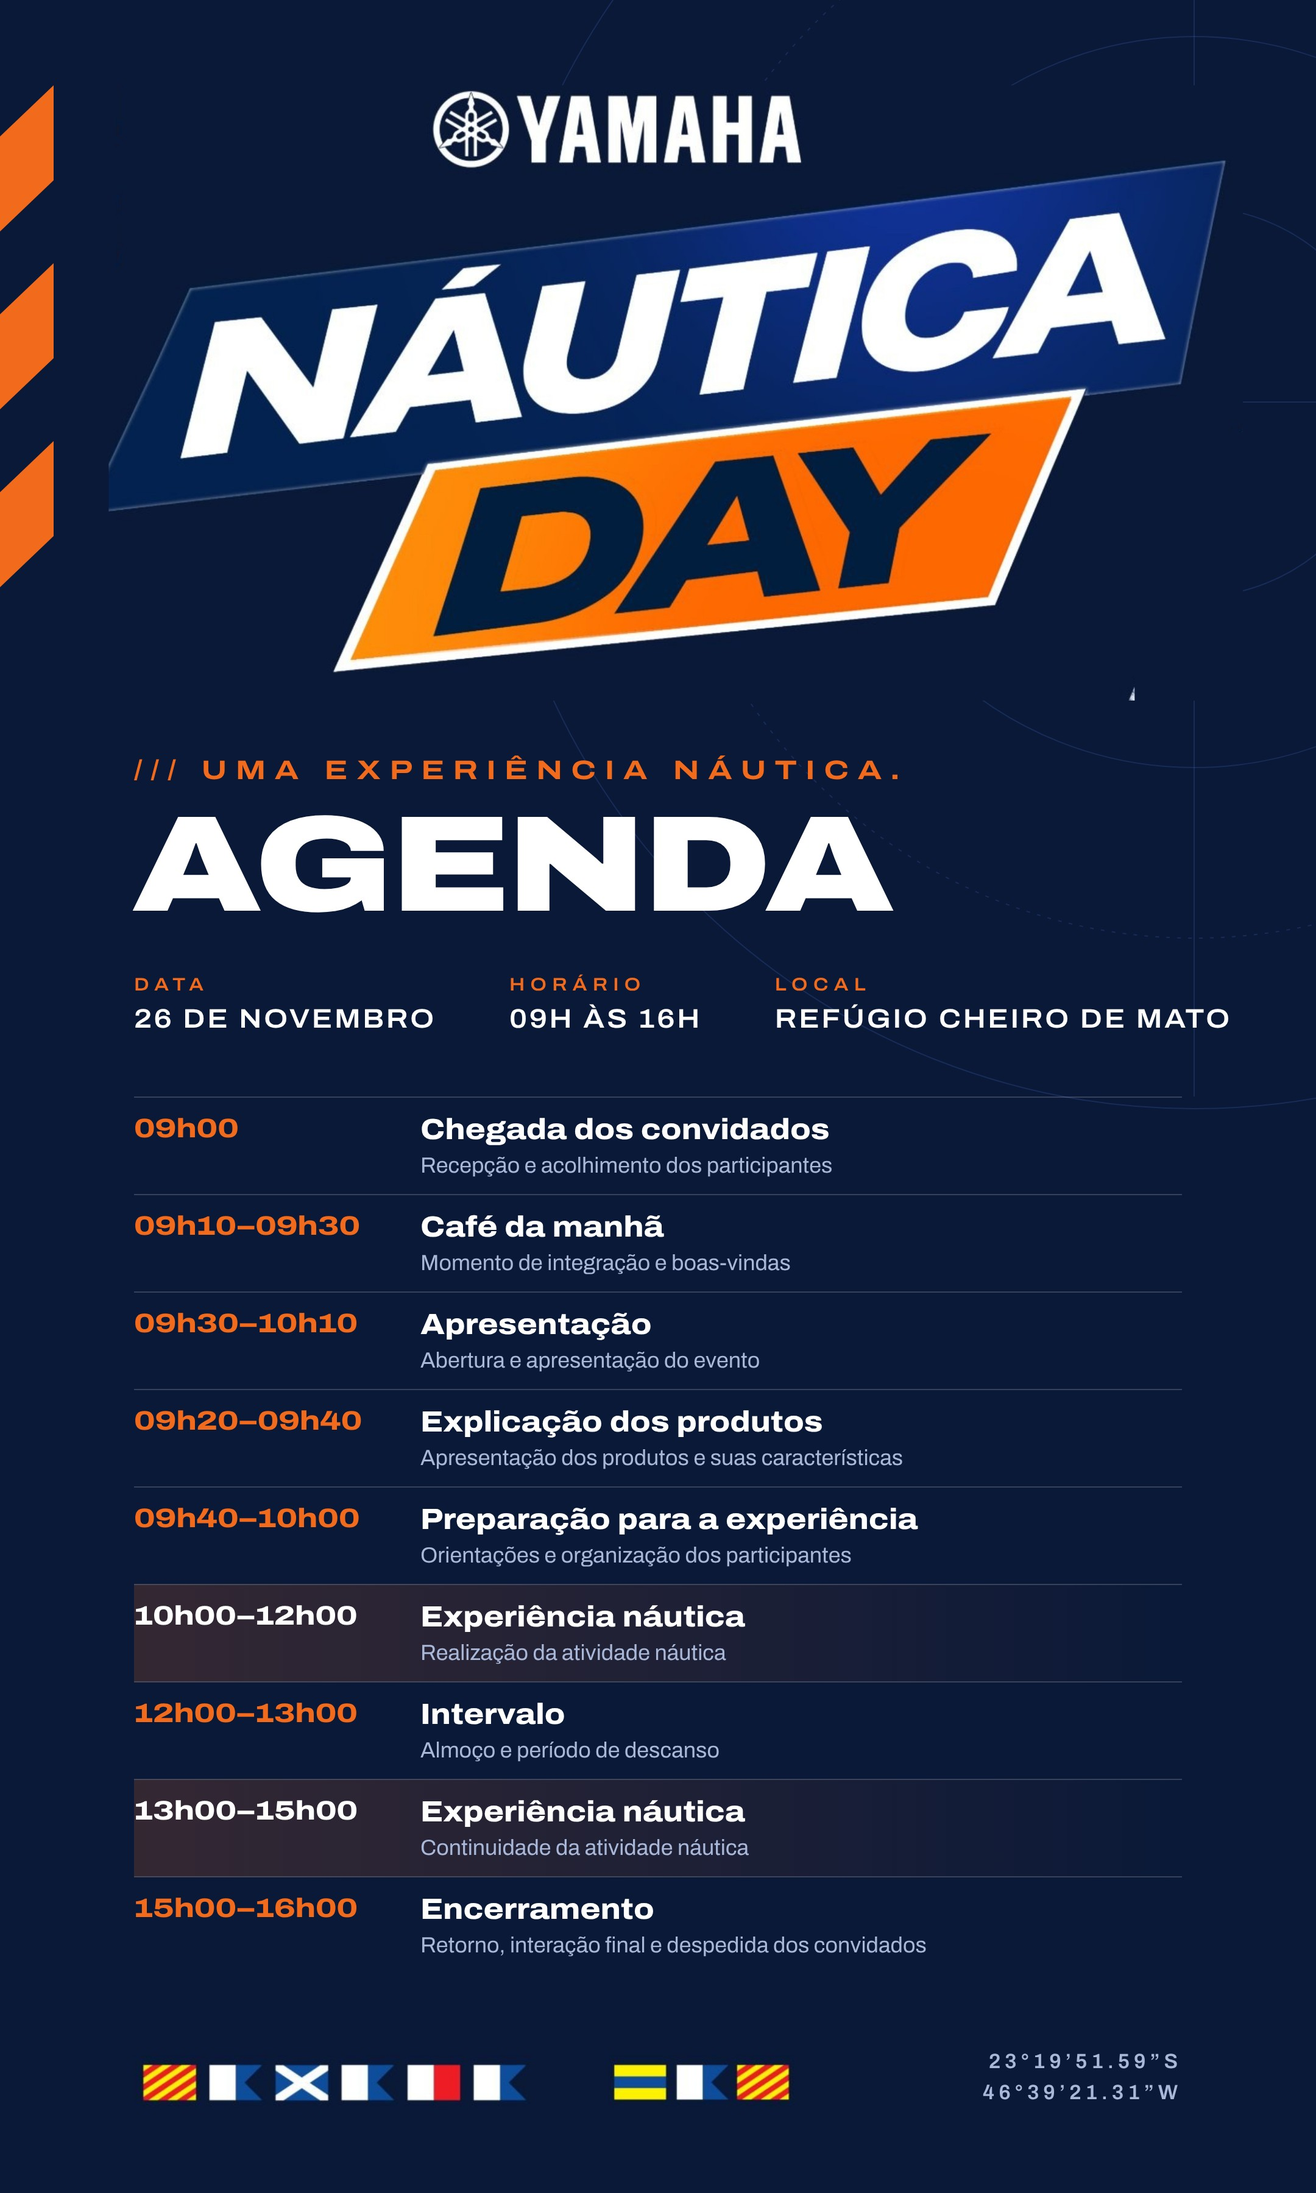
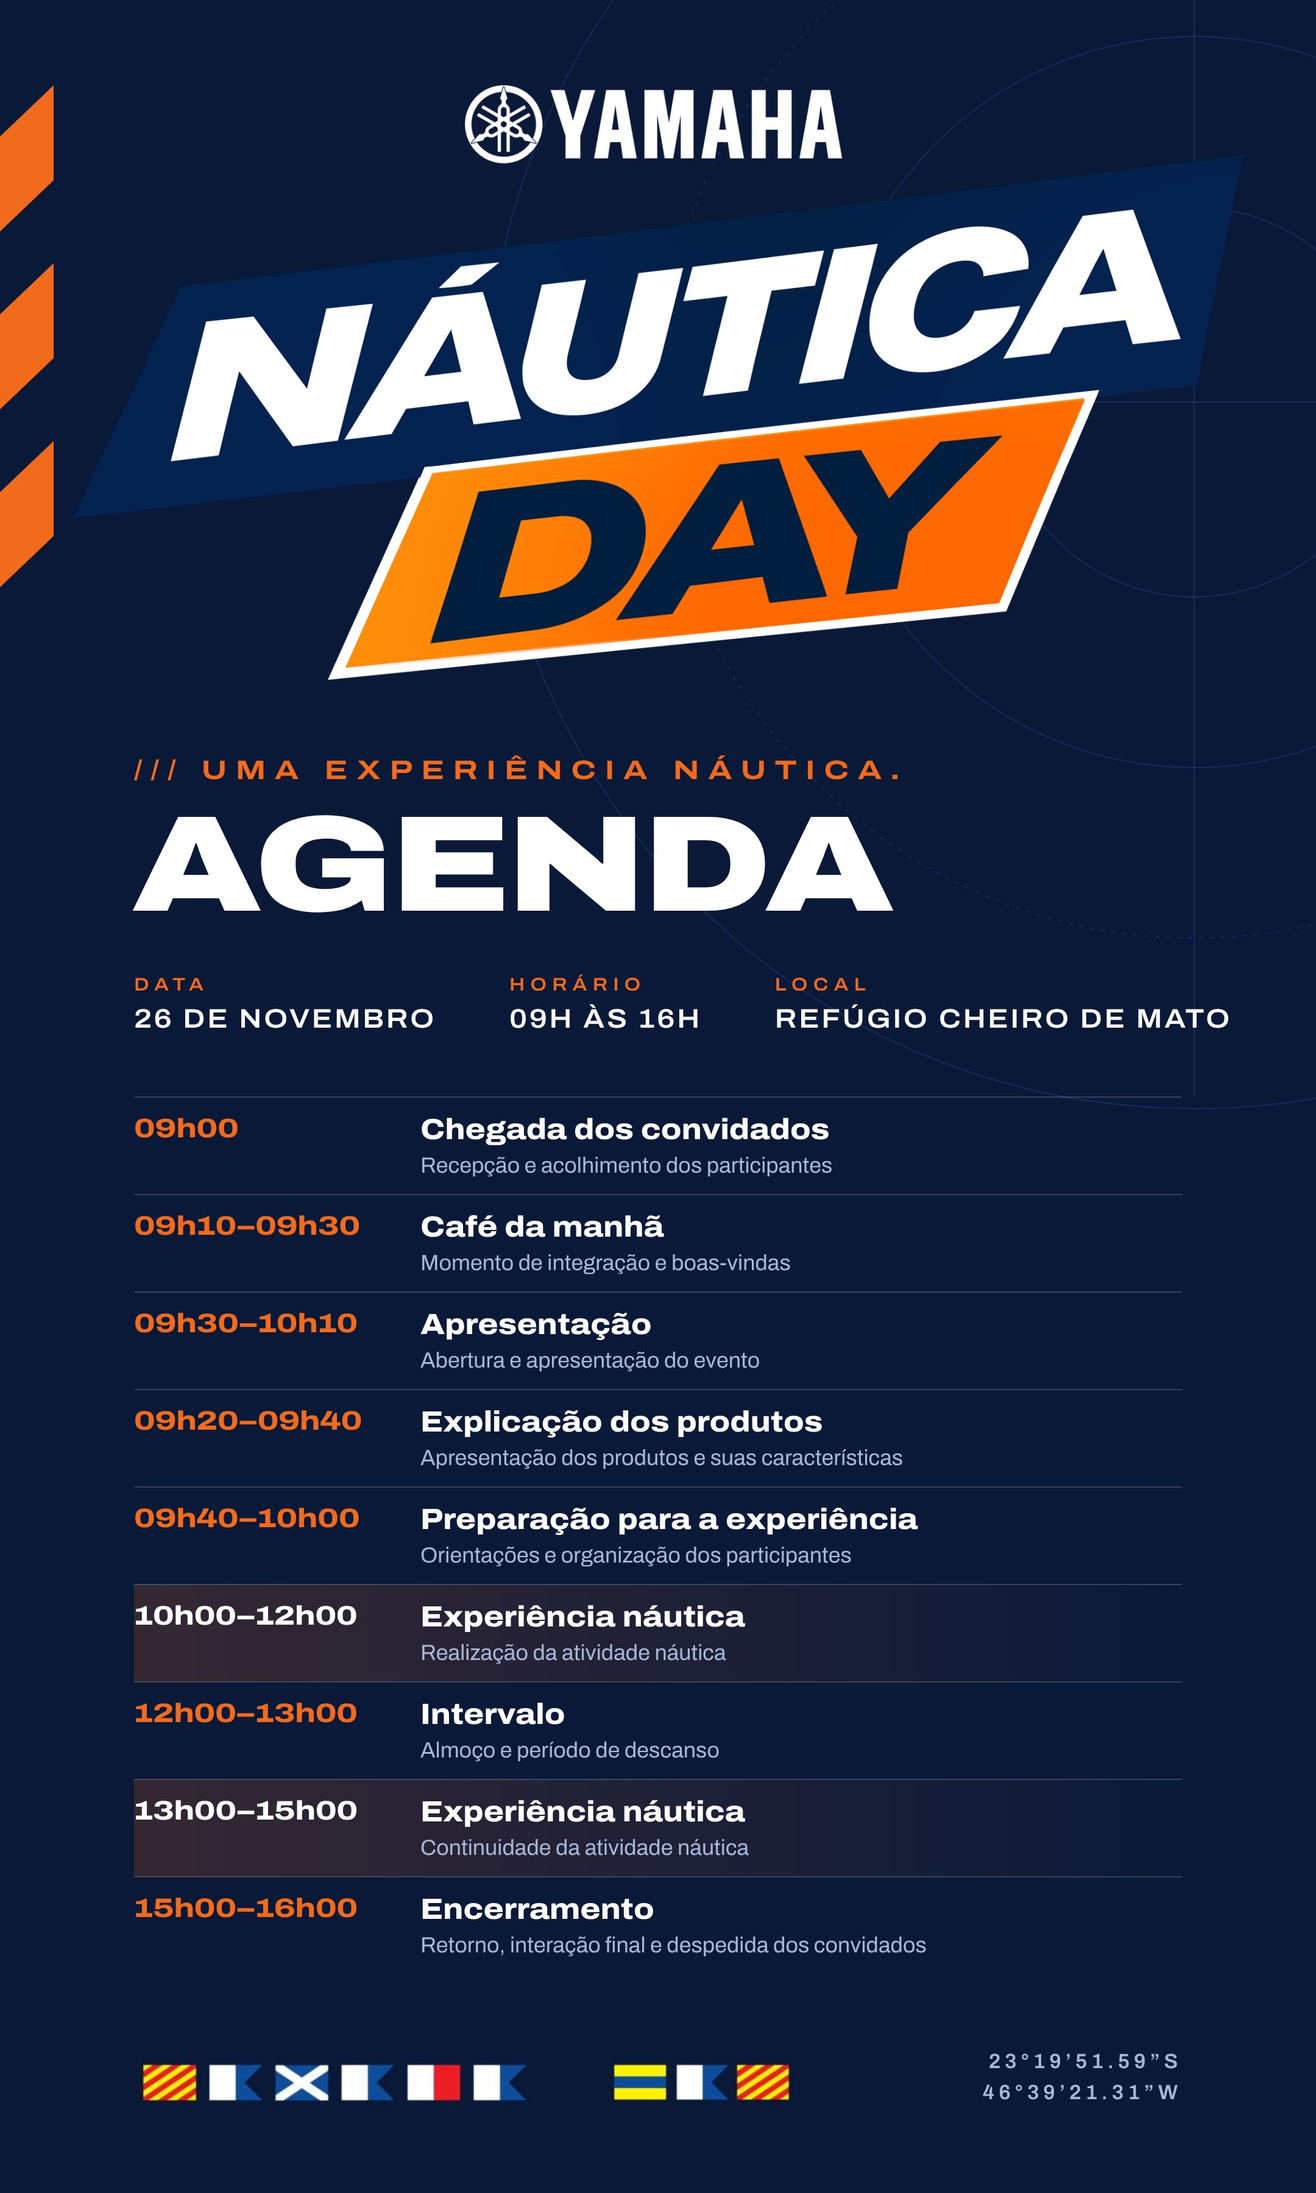
Agenda: lockup completo a partir do PSD
Claude-Session: https://claude.ai/code/session_011PRs9aBYhDYYvJe2sXdTZk

Changed region(s): [[0.2481, 0.0311, 0.9306, 0.3111], [0.0931, 0.1244, 0.3102, 0.2178], [0.3102, 0.1244, 0.3722, 0.1556]]

diff --git a/v2/index.html b/v2/index.html
@@ -510,7 +510,7 @@ function voteBox(){const k=KV[i],liked=!!ls.get("nd-like-"+k.id),c=cnt(k.id);
   <div class="tal">${KV.map((x,n)=>`<div class="row ${ls.get("nd-like-"+x.id)?'me':''}"><span>Rota ${n+1} · ${x.name}</span><b>${dbState==="ok"?cnt(x.id):'–'} ♥</b></div>`).join('')}</div></div>`}
 function bindVote(){const b=$("#vb");if(b)b.onclick=()=>cast(KV[i].id)}
 
-const PCS={"d": [{"t": "Pórtico de entrada", "d": "Só lettering e ícones: o lockup na viga, data e coordenadas numa coluna, rosa dos ventos e as bandeiras YAMAHA DAY na outra.", "sp": [["Formato", "4 × 3,5 m"], ["Material", "estrutura com lona tensionada"]], "img": "pd-portico.jpg", "w": 1671, "h": 941}, {"t": "Backdrop do palco", "d": "A única peça que muda com o KV escolhido: o key visual em escala, atrás do palco das apresentações e das fotos.", "sp": [["Formato", "8 × 3 m"], ["Material", "lona com iluminação frontal"]], "img": "pd-palco.jpg", "w": 1672, "h": 941}, {"t": "Wind banners e totem", "d": "Trio de wind banners navy (YAMAHA, tarjas NÁUTICA/DAY, radar com listras de largada) e totem com o lockup, data, coordenadas e bandeiras.", "sp": [["Wind banner", "pena 3,5 m, tecido sublimado"], ["Totem", "2 × 0,8 m, ACM com LED na base"]], "img": "c4-sinal.jpg", "w": 1200, "h": 800}, {"t": "Credencial", "d": "Frente navy com radar, as tarjas NÁUTICA/DAY, nome e faixa laranja; verso com a programação, QR e coordenadas.", "sp": [["Formato", "PVC 9,5 × 14 cm"]], "img": "c4-cred.jpg", "w": 1200, "h": 800}, {"t": "Cordão", "d": "Fita sublimada nas duas faces: navy com Yamaha, NÁUTICA DAY, bandeiras e data; laranja por dentro com NÁUTICA DAY gigante. Mosquetão com giro.", "sp": [["Fita", "25 mm, sublimação dupla face"]], "img": "a4-cordao.jpg", "w": 1200, "h": 800}, {"t": "Convite digital", "d": "Convite com confirmação de presença e a programação na tela seguinte.", "sp": [["Formato", "1080 × 1920"]], "img": "c4-digital.jpg", "w": 1200, "h": 800}, {"t": "Agenda do evento", "d": "A programação completa do dia no sistema do Náutica Day: lockup, radar, horários com as duas janelas de experiência náutica em destaque, bandeiras e coordenadas.", "sp": [["Formatos", "story, impresso A3 e totem"]], "img": "agenda.jpg?v=2", "w": 2160, "h": 3600}, {"t": "Camisetas", "d": "Navy com NÁUTICA DAY e coordenadas no peito; off-white com a carta náutica inteira nas costas, o rastro em S e as bandeiras.", "sp": [["Técnica", "silk"]], "img": "b4-camisetas.jpg", "w": 1200, "h": 799}, {"t": "Camisetas · tarjas", "d": "Navy com as tarjas verticais nas costas e o radar; branca com o lockup e as bandeiras no peito.", "sp": [["Base", "algodão 200 g, oversized"], ["Técnica", "silk em 3 cores"]], "img": "cam-tarjas.jpg", "w": 1376, "h": 936}, {"t": "Camisetas · variação", "d": "Navy com as tarjas no peito e as listras na lateral; laranja com o radar nas costas.", "sp": [["Base", "algodão 200 g, oversized"], ["Técnica", "silk em 2 cores"]], "img": "pz-c-camisetas.jpg", "w": 1200, "h": 799}, {"t": "Lycra UV", "d": "Para pilotar: manga laranja com o código de sinais, NÁUTICA DAY na lateral e a carta náutica nas costas.", "sp": [["Base", "lycra FPU 50+"]], "img": "b4-lycra.jpg", "w": 1200, "h": 799}, {"t": "Garrafa e copo", "d": "Garrafa inox navy gravada a laser com o stencil, a carta náutica, a rosa dos ventos e as coordenadas; copo branco com a faixa de bandeiras.", "sp": [["Garrafa", "inox 750 ml"]], "img": "b4-garrafa.jpg", "w": 1024, "h": 1280}, {"t": "Bonés", "d": "Dad hat navy com o lockup bordado em relevo, trucker com as bandeiras na lateral e bucket laranja.", "sp": [["Técnica", "bordado 3D"]], "img": "bone.jpg", "w": 1536, "h": 1024}, {"t": "Sacolas", "d": "Ecobag navy com o lockup e as bandeiras; laranja com o pattern NÁUTICA DAY do cordão.", "sp": [["Base", "lona 12 oz, alças de algodão"], ["Técnica", "serigrafia"]], "img": "sacola.jpg", "w": 1536, "h": 1024}], "e": [{"t": "Pórtico de entrada", "d": "Só lettering e ícones: o lockup na viga, data e coordenadas numa coluna, rosa dos ventos e as bandeiras YAMAHA DAY na outra.", "sp": [["Formato", "4 × 3,5 m"], ["Material", "estrutura com lona tensionada"]], "img": "pd-portico.jpg", "w": 1671, "h": 941}, {"t": "Backdrop do palco", "d": "A única peça que muda com o KV escolhido: o key visual em escala, atrás do palco das apresentações e das fotos.", "sp": [["Formato", "8 × 3 m"], ["Material", "lona com iluminação frontal"]], "img": "pe-palco.jpg", "w": 1671, "h": 941}, {"t": "Wind banners e totem", "d": "Trio de wind banners navy (YAMAHA, tarjas NÁUTICA/DAY, radar com listras de largada) e totem com o lockup, data, coordenadas e bandeiras.", "sp": [["Wind banner", "pena 3,5 m, tecido sublimado"], ["Totem", "2 × 0,8 m, ACM com LED na base"]], "img": "c4-sinal.jpg", "w": 1200, "h": 800}, {"t": "Credencial", "d": "Frente navy com radar, as tarjas NÁUTICA/DAY, nome e faixa laranja; verso com a programação, QR e coordenadas.", "sp": [["Formato", "PVC 9,5 × 14 cm"]], "img": "c4-cred.jpg", "w": 1200, "h": 800}, {"t": "Cordão", "d": "Fita sublimada nas duas faces: navy com Yamaha, NÁUTICA DAY, bandeiras e data; laranja por dentro com NÁUTICA DAY gigante. Mosquetão com giro.", "sp": [["Fita", "25 mm, sublimação dupla face"]], "img": "a4-cordao.jpg", "w": 1200, "h": 800}, {"t": "Convite digital", "d": "Convite com confirmação de presença e a programação na tela seguinte.", "sp": [["Formato", "1080 × 1920"]], "img": "c4-digital.jpg", "w": 1200, "h": 800}, {"t": "Agenda do evento", "d": "A programação completa do dia no sistema do Náutica Day: lockup, radar, horários com as duas janelas de experiência náutica em destaque, bandeiras e coordenadas.", "sp": [["Formatos", "story, impresso A3 e totem"]], "img": "agenda.jpg", "w": 2160, "h": 3600}, {"t": "Camisetas", "d": "Navy com NÁUTICA DAY e coordenadas no peito; off-white com a carta náutica inteira nas costas, o rastro em S e as bandeiras.", "sp": [["Técnica", "silk"]], "img": "b4-camisetas.jpg", "w": 1200, "h": 799}, {"t": "Camisetas · tarjas", "d": "Navy com as tarjas verticais nas costas e o radar; branca com o lockup e as bandeiras no peito.", "sp": [["Base", "algodão 200 g, oversized"], ["Técnica", "silk em 3 cores"]], "img": "cam-tarjas.jpg", "w": 1376, "h": 936}, {"t": "Camisetas · variação", "d": "Navy com as tarjas no peito e as listras na lateral; laranja com o radar nas costas.", "sp": [["Base", "algodão 200 g, oversized"], ["Técnica", "silk em 2 cores"]], "img": "pz-c-camisetas.jpg", "w": 1200, "h": 799}, {"t": "Lycra UV", "d": "Para pilotar: manga laranja com o código de sinais, NÁUTICA DAY na lateral e a carta náutica nas costas.", "sp": [["Base", "lycra FPU 50+"]], "img": "b4-lycra.jpg", "w": 1200, "h": 799}, {"t": "Garrafa e copo", "d": "Garrafa inox navy gravada a laser com o stencil, a carta náutica, a rosa dos ventos e as coordenadas; copo branco com a faixa de bandeiras.", "sp": [["Garrafa", "inox 750 ml"]], "img": "b4-garrafa.jpg", "w": 1024, "h": 1280}, {"t": "Bonés", "d": "Dad hat navy com o lockup bordado em relevo, trucker com as bandeiras na lateral e bucket laranja.", "sp": [["Técnica", "bordado 3D"]], "img": "bone.jpg", "w": 1536, "h": 1024}, {"t": "Sacolas", "d": "Ecobag navy com o lockup e as bandeiras; laranja com o pattern NÁUTICA DAY do cordão.", "sp": [["Base", "lona 12 oz, alças de algodão"], ["Técnica", "serigrafia"]], "img": "sacola.jpg", "w": 1536, "h": 1024}]};
+const PCS={"d": [{"t": "Pórtico de entrada", "d": "Só lettering e ícones: o lockup na viga, data e coordenadas numa coluna, rosa dos ventos e as bandeiras YAMAHA DAY na outra.", "sp": [["Formato", "4 × 3,5 m"], ["Material", "estrutura com lona tensionada"]], "img": "pd-portico.jpg", "w": 1671, "h": 941}, {"t": "Backdrop do palco", "d": "A única peça que muda com o KV escolhido: o key visual em escala, atrás do palco das apresentações e das fotos.", "sp": [["Formato", "8 × 3 m"], ["Material", "lona com iluminação frontal"]], "img": "pd-palco.jpg", "w": 1672, "h": 941}, {"t": "Wind banners e totem", "d": "Trio de wind banners navy (YAMAHA, tarjas NÁUTICA/DAY, radar com listras de largada) e totem com o lockup, data, coordenadas e bandeiras.", "sp": [["Wind banner", "pena 3,5 m, tecido sublimado"], ["Totem", "2 × 0,8 m, ACM com LED na base"]], "img": "c4-sinal.jpg", "w": 1200, "h": 800}, {"t": "Credencial", "d": "Frente navy com radar, as tarjas NÁUTICA/DAY, nome e faixa laranja; verso com a programação, QR e coordenadas.", "sp": [["Formato", "PVC 9,5 × 14 cm"]], "img": "c4-cred.jpg", "w": 1200, "h": 800}, {"t": "Cordão", "d": "Fita sublimada nas duas faces: navy com Yamaha, NÁUTICA DAY, bandeiras e data; laranja por dentro com NÁUTICA DAY gigante. Mosquetão com giro.", "sp": [["Fita", "25 mm, sublimação dupla face"]], "img": "a4-cordao.jpg", "w": 1200, "h": 800}, {"t": "Convite digital", "d": "Convite com confirmação de presença e a programação na tela seguinte.", "sp": [["Formato", "1080 × 1920"]], "img": "c4-digital.jpg", "w": 1200, "h": 800}, {"t": "Agenda do evento", "d": "A programação completa do dia no sistema do Náutica Day: lockup, radar, horários com as duas janelas de experiência náutica em destaque, bandeiras e coordenadas.", "sp": [["Formatos", "story, impresso A3 e totem"]], "img": "agenda.jpg?v=3", "w": 2160, "h": 3600}, {"t": "Camisetas", "d": "Navy com NÁUTICA DAY e coordenadas no peito; off-white com a carta náutica inteira nas costas, o rastro em S e as bandeiras.", "sp": [["Técnica", "silk"]], "img": "b4-camisetas.jpg", "w": 1200, "h": 799}, {"t": "Camisetas · tarjas", "d": "Navy com as tarjas verticais nas costas e o radar; branca com o lockup e as bandeiras no peito.", "sp": [["Base", "algodão 200 g, oversized"], ["Técnica", "silk em 3 cores"]], "img": "cam-tarjas.jpg", "w": 1376, "h": 936}, {"t": "Camisetas · variação", "d": "Navy com as tarjas no peito e as listras na lateral; laranja com o radar nas costas.", "sp": [["Base", "algodão 200 g, oversized"], ["Técnica", "silk em 2 cores"]], "img": "pz-c-camisetas.jpg", "w": 1200, "h": 799}, {"t": "Lycra UV", "d": "Para pilotar: manga laranja com o código de sinais, NÁUTICA DAY na lateral e a carta náutica nas costas.", "sp": [["Base", "lycra FPU 50+"]], "img": "b4-lycra.jpg", "w": 1200, "h": 799}, {"t": "Garrafa e copo", "d": "Garrafa inox navy gravada a laser com o stencil, a carta náutica, a rosa dos ventos e as coordenadas; copo branco com a faixa de bandeiras.", "sp": [["Garrafa", "inox 750 ml"]], "img": "b4-garrafa.jpg", "w": 1024, "h": 1280}, {"t": "Bonés", "d": "Dad hat navy com o lockup bordado em relevo, trucker com as bandeiras na lateral e bucket laranja.", "sp": [["Técnica", "bordado 3D"]], "img": "bone.jpg", "w": 1536, "h": 1024}, {"t": "Sacolas", "d": "Ecobag navy com o lockup e as bandeiras; laranja com o pattern NÁUTICA DAY do cordão.", "sp": [["Base", "lona 12 oz, alças de algodão"], ["Técnica", "serigrafia"]], "img": "sacola.jpg", "w": 1536, "h": 1024}], "e": [{"t": "Pórtico de entrada", "d": "Só lettering e ícones: o lockup na viga, data e coordenadas numa coluna, rosa dos ventos e as bandeiras YAMAHA DAY na outra.", "sp": [["Formato", "4 × 3,5 m"], ["Material", "estrutura com lona tensionada"]], "img": "pd-portico.jpg", "w": 1671, "h": 941}, {"t": "Backdrop do palco", "d": "A única peça que muda com o KV escolhido: o key visual em escala, atrás do palco das apresentações e das fotos.", "sp": [["Formato", "8 × 3 m"], ["Material", "lona com iluminação frontal"]], "img": "pe-palco.jpg", "w": 1671, "h": 941}, {"t": "Wind banners e totem", "d": "Trio de wind banners navy (YAMAHA, tarjas NÁUTICA/DAY, radar com listras de largada) e totem com o lockup, data, coordenadas e bandeiras.", "sp": [["Wind banner", "pena 3,5 m, tecido sublimado"], ["Totem", "2 × 0,8 m, ACM com LED na base"]], "img": "c4-sinal.jpg", "w": 1200, "h": 800}, {"t": "Credencial", "d": "Frente navy com radar, as tarjas NÁUTICA/DAY, nome e faixa laranja; verso com a programação, QR e coordenadas.", "sp": [["Formato", "PVC 9,5 × 14 cm"]], "img": "c4-cred.jpg", "w": 1200, "h": 800}, {"t": "Cordão", "d": "Fita sublimada nas duas faces: navy com Yamaha, NÁUTICA DAY, bandeiras e data; laranja por dentro com NÁUTICA DAY gigante. Mosquetão com giro.", "sp": [["Fita", "25 mm, sublimação dupla face"]], "img": "a4-cordao.jpg", "w": 1200, "h": 800}, {"t": "Convite digital", "d": "Convite com confirmação de presença e a programação na tela seguinte.", "sp": [["Formato", "1080 × 1920"]], "img": "c4-digital.jpg", "w": 1200, "h": 800}, {"t": "Agenda do evento", "d": "A programação completa do dia no sistema do Náutica Day: lockup, radar, horários com as duas janelas de experiência náutica em destaque, bandeiras e coordenadas.", "sp": [["Formatos", "story, impresso A3 e totem"]], "img": "agenda.jpg", "w": 2160, "h": 3600}, {"t": "Camisetas", "d": "Navy com NÁUTICA DAY e coordenadas no peito; off-white com a carta náutica inteira nas costas, o rastro em S e as bandeiras.", "sp": [["Técnica", "silk"]], "img": "b4-camisetas.jpg", "w": 1200, "h": 799}, {"t": "Camisetas · tarjas", "d": "Navy com as tarjas verticais nas costas e o radar; branca com o lockup e as bandeiras no peito.", "sp": [["Base", "algodão 200 g, oversized"], ["Técnica", "silk em 3 cores"]], "img": "cam-tarjas.jpg", "w": 1376, "h": 936}, {"t": "Camisetas · variação", "d": "Navy com as tarjas no peito e as listras na lateral; laranja com o radar nas costas.", "sp": [["Base", "algodão 200 g, oversized"], ["Técnica", "silk em 2 cores"]], "img": "pz-c-camisetas.jpg", "w": 1200, "h": 799}, {"t": "Lycra UV", "d": "Para pilotar: manga laranja com o código de sinais, NÁUTICA DAY na lateral e a carta náutica nas costas.", "sp": [["Base", "lycra FPU 50+"]], "img": "b4-lycra.jpg", "w": 1200, "h": 799}, {"t": "Garrafa e copo", "d": "Garrafa inox navy gravada a laser com o stencil, a carta náutica, a rosa dos ventos e as coordenadas; copo branco com a faixa de bandeiras.", "sp": [["Garrafa", "inox 750 ml"]], "img": "b4-garrafa.jpg", "w": 1024, "h": 1280}, {"t": "Bonés", "d": "Dad hat navy com o lockup bordado em relevo, trucker com as bandeiras na lateral e bucket laranja.", "sp": [["Técnica", "bordado 3D"]], "img": "bone.jpg", "w": 1536, "h": 1024}, {"t": "Sacolas", "d": "Ecobag navy com o lockup e as bandeiras; laranja com o pattern NÁUTICA DAY do cordão.", "sp": [["Base", "lona 12 oz, alças de algodão"], ["Técnica", "serigrafia"]], "img": "sacola.jpg", "w": 1536, "h": 1024}]};
 const STX=[["hero","Identidade no produto","WaveRunner com NÁUTICA DAY no casco, como marcação de fábrica. O hero da ativação."],["deck","Stencil no deck","NÁUTICA DAY, setas e linhas de velocidade no piso: a circulação vira mídia."],["boia","Boias de amarração","Navy com lettering branco e laranja de sinalização, instaladas no lago."],["caixa","Caixas de operação","Cases e baús com marcações, coordenadas e códigos de bordo."],["lounge","Lounge náutico","Tambores e mobiliário industrial como apoio e ambientação."],["pintura","Pintura ao vivo","O lettering aplicado no casco de uma WaveRunner diante dos convidados, com gabarito e máscara removível."],["lab","Stencil Lab","O convidado escolhe placa, tag ou mini case e leva a peça marcada."],["colecao","Coleção marca de bordo","Coletes e dry bags com personalização das iniciais."],["bandeiras","Cenografia: bandeiras náuticas","Fileira no píer soletrando YAMAHA · DAY com as bandeiras reais do Código Internacional de Sinais. O vento faz parte da cena."]];
 function sugSec(){return `<section class="sug"><div class="sw"><p class="eyebrow">Sugestão de ativação</p><h2>Stencil Experience</h2><p>O stencil do NÁUTICA DAY sai do casco e ocupa o Refúgio: deck, boias, caixas de operação, lounge, pintura ao vivo numa WaveRunner e um Stencil Lab onde o convidado personaliza a própria peça. Funciona com qualquer um dos dois KVs.</p><img src="ativ-stencil.jpg" alt="Ativação stencil" loading="lazy"></div>
 <div class="sw"><p class="eyebrow">Sugestão de cenografia</p><h2>Bandeiras náuticas</h2><p>As 9 bandeiras do Código Internacional de Sinais soletram YAMAHA DAY em escala real: fileira no píer, pórtico de bandeiras, parede do lounge para fotos e bandeiras gigantes nas árvores. É a identidade do evento ocupando o lugar.</p><img src="ceno-bandeiras.jpg" alt="Cenografia de bandeiras" loading="lazy"></div></section>`}
